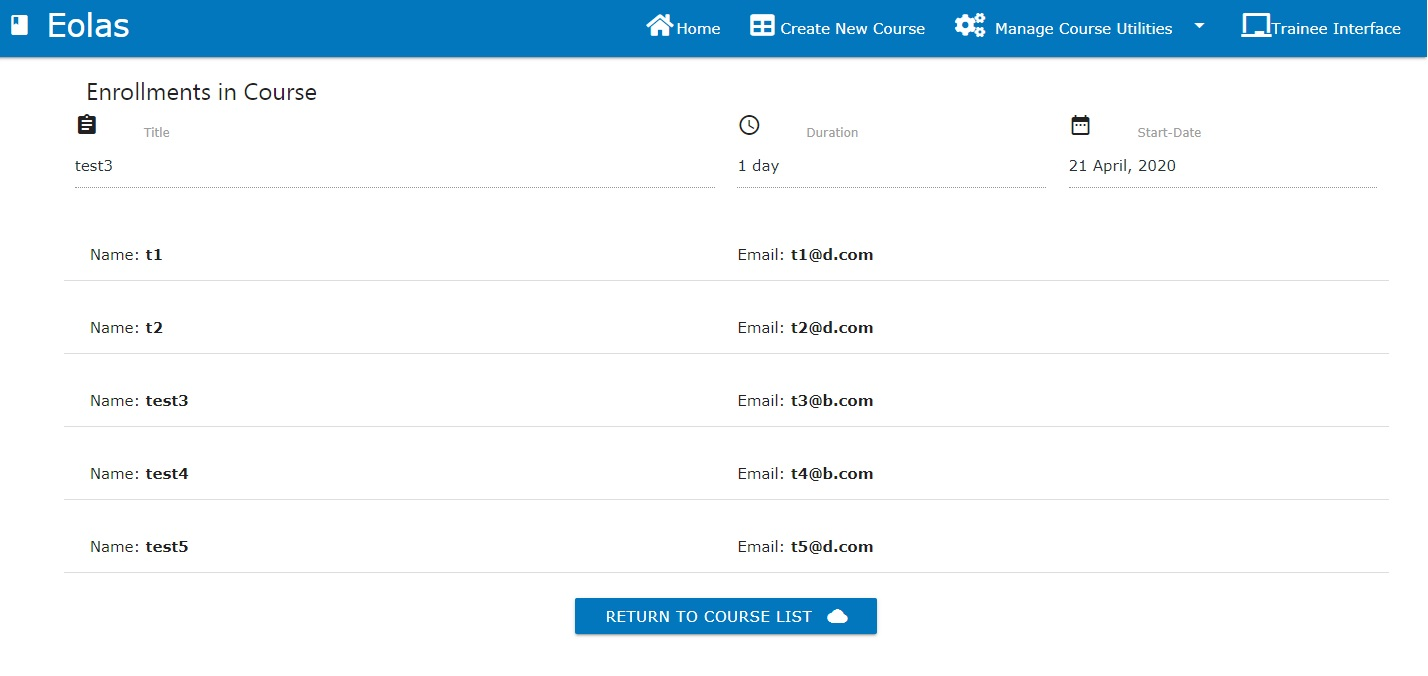
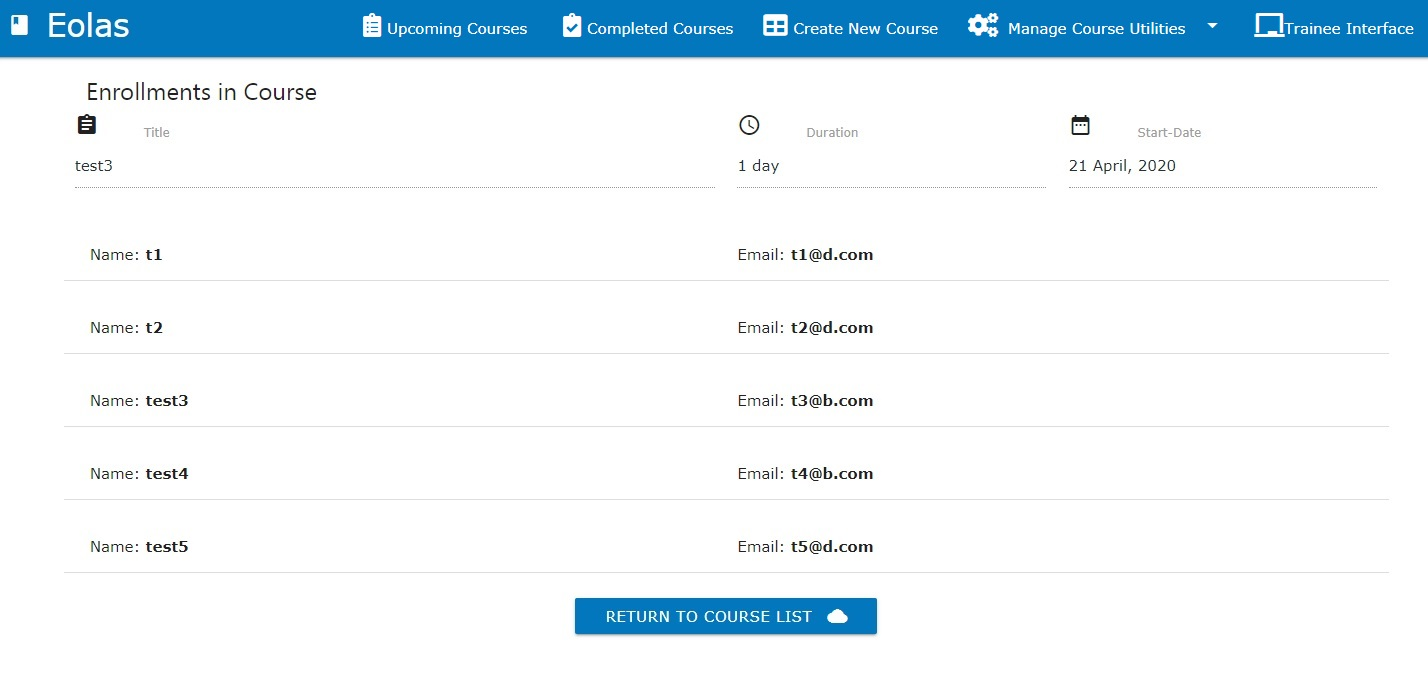
documentation images updates with new navbar. README updated with description of course filter

Changed region(s): [[0.2465, 0.0, 1.0, 0.0621]]

diff --git a/app.py b/app.py
@@ -78,7 +78,7 @@ def insert_course():
     course_insertion.update({'subscriber_list': []})
     course_insertion.update({'percentage': "0%"})
     courses.insert_one(course_insertion)
-    return redirect(url_for('get_courses'))
+    return redirect(url_for('get_courses_gte'))
 
 
 # call to editcourse page with requisite data from
@@ -115,7 +115,7 @@ def edit_course(course_id):
                             'course_description': request.form.get('course_description'),
                             'max_subscriber': request.form.get('max_subscriber')
                         }})
-    return redirect(url_for('get_courses'))
+    return redirect(url_for('get_courses_gte'))
 
 
 # delete specified course from database
@@ -123,7 +123,7 @@ def edit_course(course_id):
 def delete_course(course_id):
     # gather specified course ID and call remove function
     mongo.db.courses.remove({'_id': ObjectId(course_id)})
-    return redirect(url_for('get_courses'))
+    return redirect(url_for('get_courses_gte'))
 
 
 ## Enrollment-specific functions

diff --git a/README.md b/README.md
@@ -49,11 +49,12 @@ My goal in building this site was to make it easier to observe and manage inform
 In this process there are two types of actors - Trainers & Trainees. Therefore, in designing this site, I started with the following user stories:
 
 ***Trainer Building and diseminating information related to training programmes***
-> I wanted easy trainers to be able to create, access, edit and delete information on available training options through a minimalist, sleek, easy-to-navigate site. I wanted the 
+> I wanted easy trainers to be able to create, access, edit and delete information on available training options through a minimalist, sleek, easy-to-navigate site. I wanted trainer 
+to have the option to view courses that have been completed, and courses that are upcoming in order to quickly find the requisite course. I wanted the 
 trainer to be able to create a course, but to still be directed in some aspects of the course creation. Therefore, a number of fields of the course creation and course editing pages
-are populated dropdown menus (Category, Duration & Size), where the contents of the dropdown come from the requisite collections in the [database](#Database). Of course these elements
-are not static, and as such, each collection can be all be managed (created, viewed, edited, deleted) from the Manage Course Utilities menu. I also wanted the trainer to be able to 
-quickly ascertain the uptake on each course to view the amount of enrollments for each course, so I chose to represent this as a progress bar that gives a quick visual breakdown 
+are populated dropdown menus (Category, Duration & Size), where the contents of the dropdown come from the requisite collections in the [database](#Database). Of course these 
+elements are not static, and as such, each collection can be all be managed (created, viewed, edited, deleted) from the Manage Course Utilities menu. I also wanted the trainer to 
+be able to quickly ascertain the uptake on each course to view the amount of enrollments for each course, so I chose to represent this as a progress bar that gives a quick visual breakdown 
 of the enrollments. 
 
 ***Trainee Looking to access course information and enroll in their chosen programme***
@@ -89,13 +90,16 @@ As detailed in the [UX + User Stories](#UX+User-Stories) both trainer and traine
 demonstrative purposes, visitors can quickly move back and forth between the two interfaces. 
 
 ## Current-Features
-***Home Page - Trainer Interface***
+***Trainer Interface***
 As discussed in the user stories, within the trainer interface, the trainer needs to quickly ascertain information about presented training. Therefore the main landing page for the 
-trainer section of the side contains an accordian with each course and it's start date presented to the user, as shown below. When the user, clicks on a particular course, the 
-collapsible element opens out to present a more details view of the programme, highlighting the various details of that particular iteration, as well as current uptake in the course 
-(shown in progress bar). The icons show to the left of the course title are dependant on the course category chosen (Technical, Soft-Skills, Professional).
-A number of buttons also provide prompts for the trainer to manage the courses, allowing for the editing and deleting of a particular course, fulfilling the main requirements for the
-trainer highlighted in the user stories.
+trainer section of the side contains an accordian with each course and it's start date presented to the user, as shown below. All courses are sorted according to on the date they're 
+due to run, with the soonest course appearing at the top.
+
+The first landing page presents only course that have yet to some (i.e. start date either today or after today). To view courses that ran previously, the training can navigate to 
+this list via the 'Completed Courses' button on the navbar. When the user, clicks on a particular course, the collapsible element opens out to present a more details view of the 
+programme, highlighting the various details of that particular iteration, as well as current uptake in the course (shown in progress bar). The icons show to the left of the course 
+title are dependant on the course category chosen (Technical, Soft-Skills, Professional). A number of buttons also provide prompts for the trainer to manage the courses, allowing 
+for the editing and deleting of a particular course, fulfilling the main requirements for the trainer highlighted in the user stories.
 
 >Trainer Interface - Closed Menu
 ![Home Page Closed](documentation/home_page_closed.jpg)
@@ -138,10 +142,11 @@ Maximum Course size take the same form as this.
 >Manage Categories Page
 ![Utilities](documentation/manage_categories.jpg)
 
-***Home Page - Trainee***
+***Home Page - Trainee Interface***
 Within the trainee interface, as called out in the user stories, the trainee needs to be able to quickly scan through the list of available courses and gather as much information
-as they require to decide on a particular course. Therefore, mirroring the Trainer interface, a collapsible accordian element presents all the courses to the trainee. When they click
-on a particular course, they are presented with the breakdown shown below. Within the interface, the trainee can navigate to the enrollment page for their particular chosen course.
+as they require to decide on a particular course. Therefore, mirroring the Trainer interface, a collapsible accordian element presents all upcoming courses to the trainee (i.e. due to 
+start after today).When they click on a particular course, they are presented with the breakdown shown below. Within the interface, the trainee can navigate to the enrollment page 
+for their particular chosen course.
 
 The trainee interface is distinguished from the trainer interface by the colour scheme of the navbar and the available options in the navbar. Users can navigate between both interfaces
 via the navbar.
